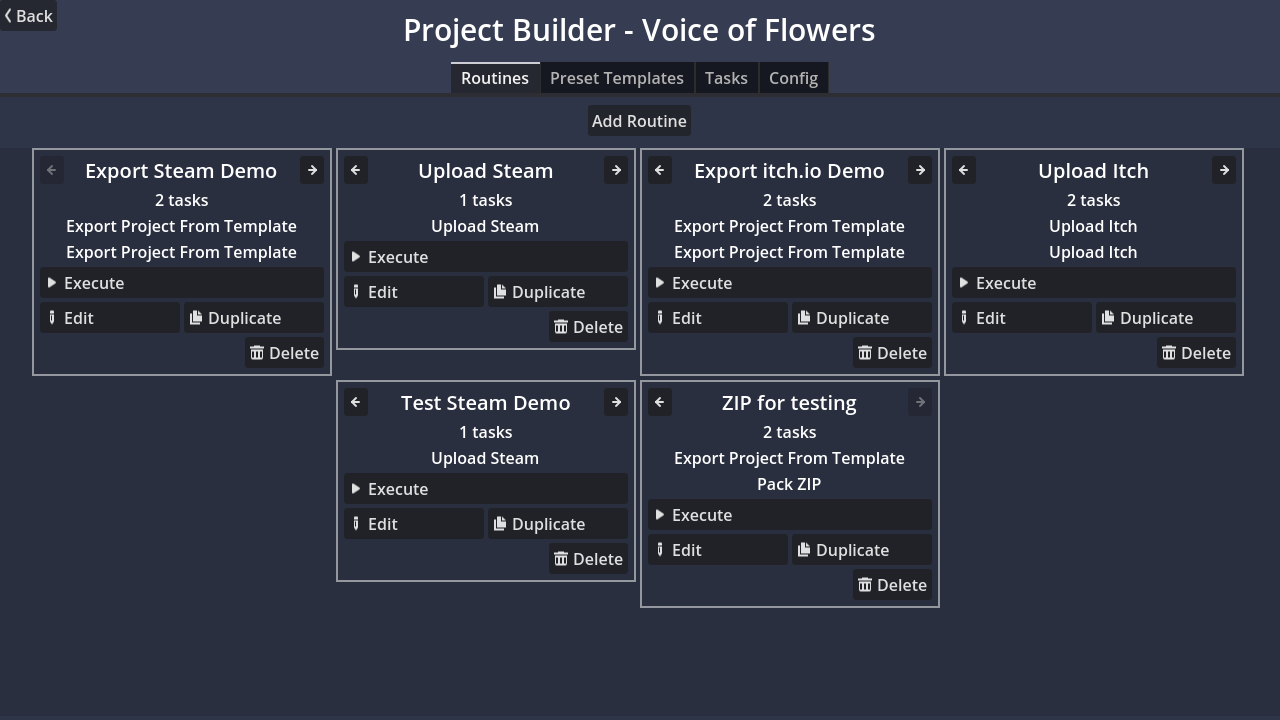
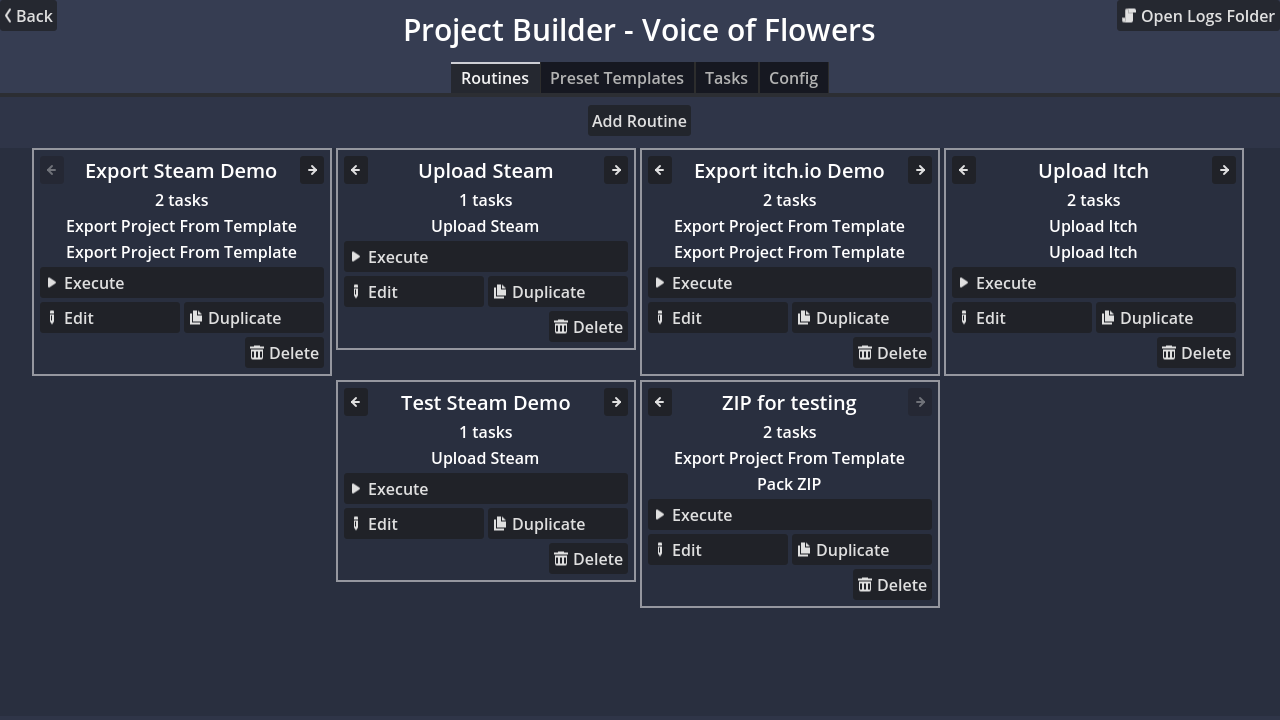
More README and feature creep

Changed region(s): [[0.875, 0.0, 1.0, 0.0611]]

diff --git a/README.md b/README.md
@@ -36,9 +36,23 @@ After the task is added, you can use its controls to setup it. Reference about t
 
 At the top of the task preview is its title and various buttons. The top-left button allows you to quickly execute a single task from the routine (see [Executing](#executing)). The top-right are buttons for rearranging tasks, a Copy button and a Delete button. Copy will copy the task data into an internal clipboard and you will be able to paste the task into the same routine, other routines, or even other projects. The Delete button requires double-click to activate, to prevent accidental deleting. A deleted task cannot be recovered, as currently the Project Builder does not support undo/redo.
 
-Above the task list is the routine name field, where you can rename it. Note that each routine needs an unique name and if there is a conflict, you won't be able to leave this screen (unless you use the Discard Changes button). Clicking Back will go back to the main screen and save the routine. The routine is also saved when you close the Project Builder.
+Above the task list is the routine name field, where you can rename it. Note that each routine needs an unique name and if there is a conflict, you won't be able to leave this screen (unless you use the Discard Changes button). Aside from name, there is a dropdown for controlling what happens when a task fails (see [Executing](#executing)). Clicking Back will go back to the main screen and save the routine. The routine is also saved when you close the Project Builder.
 
 #### Executing
+
+By clicking the Execute button in a routine, by using using the quick-execute button in routine editing screen, you will enter the execution mode. If you did this by accident, you have 1 second to press Escape and cancel task (afterwards you have to close the application if you want to stop it).
+
+![](Media/RoutineExecuting.gif)
+
+Execution works simply by running tasks one after another. A task will run a commend with arguments and display the output in real time. Once a task finishes, you will see whether it succeeded or failed, its exit code, and the time it took to execute.
+
+![](Media/FinishedTask.png)
+
+Top of the task is its execution name (i.e. a more detailed task name) and the exact command that is executed when the task runs (in the example above, the task invoked Godot with `--export-release`). Below is Toggle Output button that allows you to hide output and Copy Output, which will copy it to the clipboard. Note that output is also written to log files that can be accessed from Open Log Folder on the main screen.
+
+Normally when task fails, the whole execution will stop. You can configure that in routine settings; the other option is to continue executing normally. When a routine finishes, you will see the total time it took to execute.
+
+![](Media/FinishedRoutine.png)
 
 ### Templates
 
@@ -47,6 +61,8 @@ Above the task list is the routine name field, where you can rename it. Note tha
 ### Config
 
 ### Project Builder Plugin
+
+command palette
 
 ## List of Available Tasks
 
